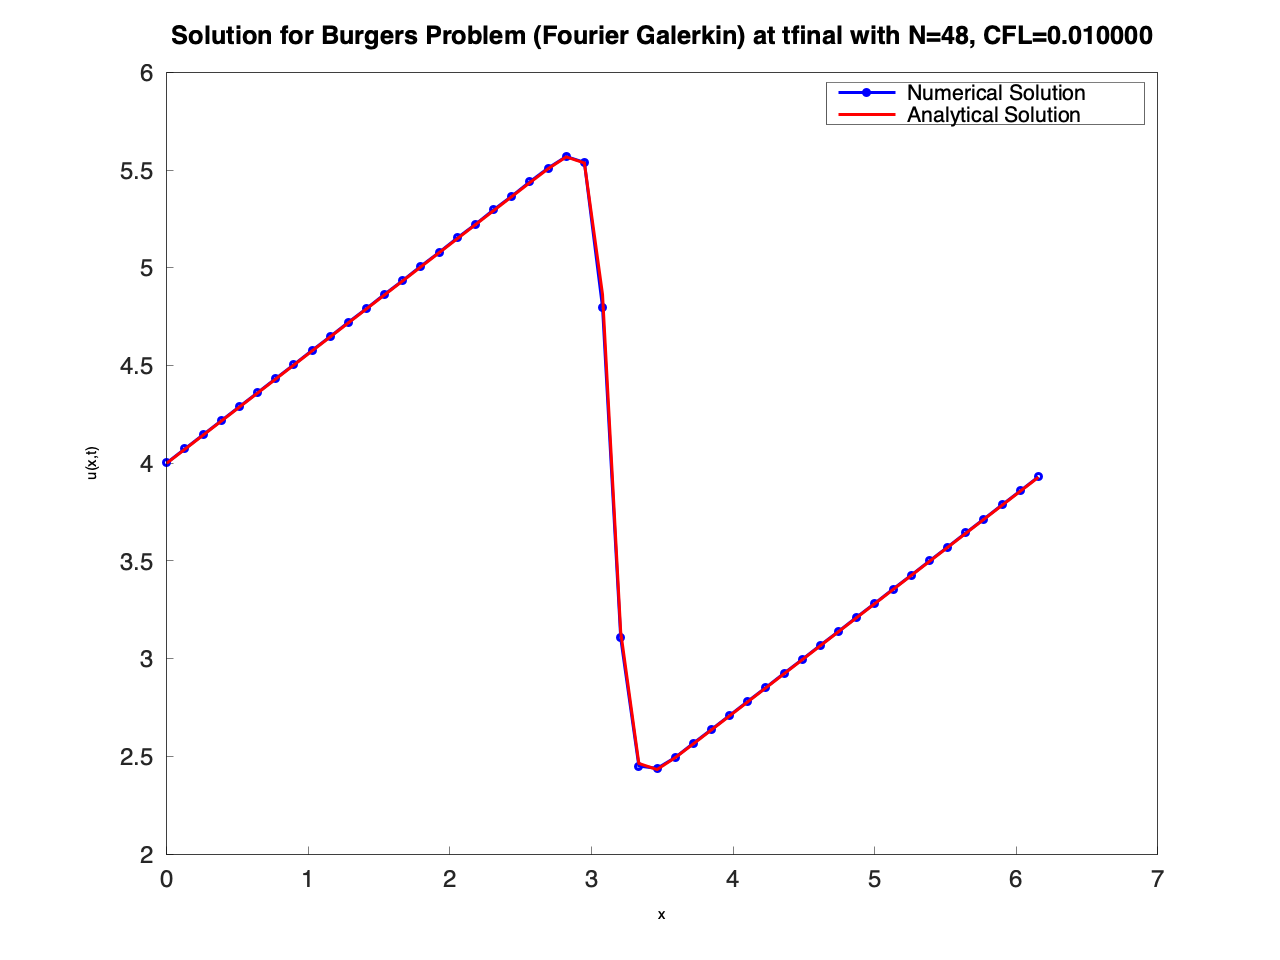
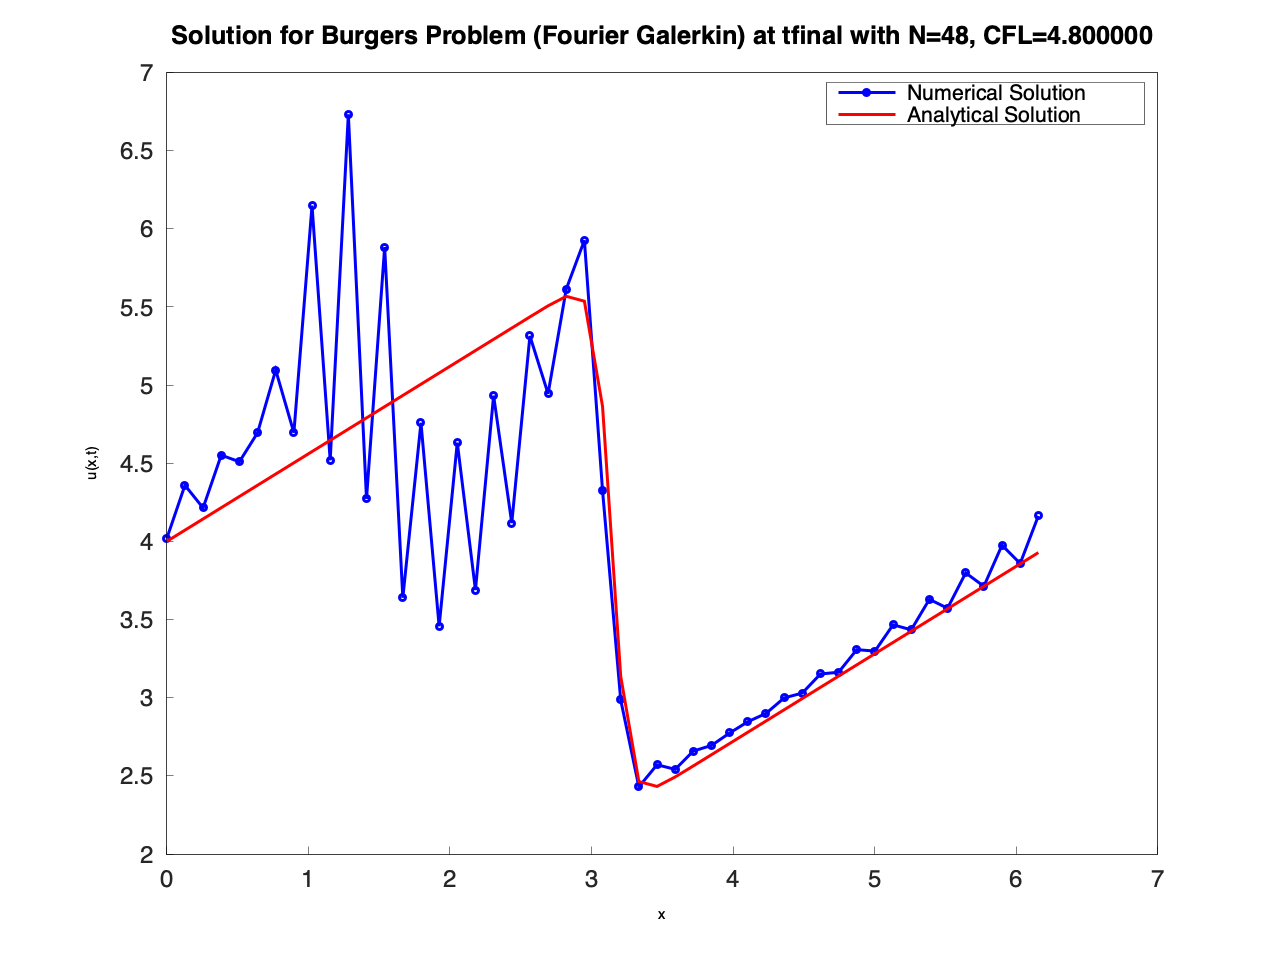
updated cfl

diff --git a/solver/src/main.cc b/solver/src/main.cc
@@ -43,7 +43,7 @@ std::vector<double> burgers_find_max_cfl() {
             << std::setw(25) << "Error at Max CFL" << std::endl;
   std::cout << std::string(53, '-') << std::endl;
 
-  double t_test = MathConstants<double>::PI() / 4.0;
+  double t_test = MathConstants<double>::PI() / 8.0;
 
   using namespace matplot;
   auto fig = figure(true);
@@ -56,7 +56,7 @@ std::vector<double> burgers_find_max_cfl() {
   ax->font_size(18); // Apply font size to axis-level elements
   ax->xlabel("cfls");
   ax->ylabel("L_inf error");
-  ax->title("Optimal cfl");
+  ax->title("Optimal cfl Fourier Collocation Method");
 
   for (int N : N_values) {
     auto spectral = std::make_shared<SpectralFourier<double>>(MethodType::ODD);
@@ -67,49 +67,34 @@ std::vector<double> burgers_find_max_cfl() {
     // Binary search for maximum stable and accurate CFL
     double cfl_low = 0.05;
     double cfl_high = 2;
-    // double cfl_tolerance = 0.01;
-    // double max_allowed_error = 0.01;
-    // double error_at_max_cfl = 0.0;
     double t_test =
-        MathConstants<double>::PI() / 8.0; // Test for a reasonable time period
+        MathConstants<double>::PI() / 4.0; // Test for a reasonable time period
 
-    // while (cfl_high - cfl_low > cfl_tolerance) {
-    //   double cfl_test = (cfl_low + cfl_high) / 2.0;
-    //
-    //   // Run a test simulation with the current CFL
-    //   solver.initialize(N, t_test, cfl_test);
-    //   solver.solve();
-    //
-    //   // Check both stability and accuracy
-    //   auto [_, __, ___, error, ____] = solver.get_results();
-    //
-    //   // Test if the solution is stable and accurate enough
-    //   bool is_good =
-    //       !std::isnan(error) && !std::isinf(error) && error <
-    //       max_allowed_error;
-    //
-    //   if (is_good) {
-    //     cfl_low = cfl_test;
-    //     error_at_max_cfl = error;
-    //   } else {
-    //     cfl_high = cfl_test;
-    //   }
-    // }
-    //
     double cfl_test = 0.0;
+    double error_prev = 0.0;
+    double cfl_final = 0.0;
     std::vector<double> errors;
     std::vector<double> cfls;
-
+    double safe_max_cfl = cfl_low;
+    double error_at_max_cfl = 0.0;
     while (cfl_test < cfl_high) {
       cfl_test += cfl_low;
       solver.initialize(N, t_test, cfl_test);
       solver.solve();
       auto [_, __, ___, error, ____] = solver.get_results();
-      bool is_good = !std::isnan(error) && !std::isinf(error) && std::abs(error) < 50;
+      // bool is_good = !std::isnan(error) && !std::isinf(error) &&
+      // std::abs(error) < 1;
+      bool is_good = !std::isnan(error) && !std::isinf(error);
+      // &&std::abs(error) - std::abs(error_prev) < 0.5;
       if (is_good) {
         errors.push_back(error);
         cfls.push_back(cfl_test);
+        safe_max_cfl = cfl_test;
+        error_at_max_cfl = error;
+      } else {
+        break;
       }
+      error_prev = error;
     }
 
     auto p = plot(cfls, errors);
@@ -117,27 +102,22 @@ std::vector<double> burgers_find_max_cfl() {
     p->display_name("N=" + std::to_string(N));
 
     hold(true);
-
+    //
     // Use a safety factor to ensure stability in all cases
     // double safety_factor = 0.8;
-    double safety_factor = 1.;
-    double safe_max_cfl = cfl_low * safety_factor;
-
+    // double safe_max_cfl = cfl_low * safety_factor;
     max_cfls.push_back(safe_max_cfl);
-
-    // std::cout << std::setw(8) << N << std::fixed << std::setprecision(4)
-    //           << std::setw(20) << safe_max_cfl << std::scientific
-    //           << std::setprecision(6) << std::setw(25) << error_at_max_cfl
-    //           << std::endl;
-    std::cout << "Done " << N << " with nr of errors " << errors.size()
+    std::cout << std::setw(8) << N << std::fixed << std::setprecision(4)
+              << std::setw(20) << safe_max_cfl << std::scientific
+              << std::setprecision(6) << std::setw(25) << error_at_max_cfl
               << std::endl;
+    // std::cout << "Done " << N << " with nr of errors " << errors.size()
+    //           << std::endl;
   }
-
   hold(false);
   legend()->font_size(16);
-
-  save("cfl_errors.png");
-
+  //
+  save("cfl_errors_fc.png");
   return max_cfls;
 }
 
@@ -200,8 +180,7 @@ void burgers_time_evolution(const std::vector<double> &cfl_values) {
   double nu = 0.1;
 
   // Find the CFL for N=128 from our results
-  // double cfl_128 = cfl_values[5];
-  double cfl_128 = 0.9;
+  double cfl_128 = cfl_values[5];
 
   std::cout << "\n=== Part 2(d): Time Evolution for N = " << N
             << " ===" << std::endl;
@@ -263,6 +242,7 @@ void burgers_time_evolution(const std::vector<double> &cfl_values) {
 std::vector<double> determine_cfl_values() {
   std::vector<int> N_values = {16, 32, 48, 64, 96, 128, 192, 256};
   std::vector<double> cfl_values;
+  std::vector<double> max_cfls;
   double nu = 0.1;
   double t_test =
       MathConstants<double>::PI() / 8.0; // Test for a reasonable time period
@@ -276,57 +256,128 @@ std::vector<double> determine_cfl_values() {
             << std::setw(25) << "Error at Max CFL" << std::endl;
   std::cout << std::string(53, '-') << std::endl;
 
+  using namespace matplot;
+  auto fig = figure(true);
+  fig->quiet_mode(true);
+  fig->backend()->run_command("unset warnings");
+  fig->size(1280, 960);
+  fig->font_size(18);
+
+  auto ax = gca();
+  ax->font_size(18); // Apply font size to axis-level elements
+  ax->xlabel("cfls");
+  ax->ylabel("L_inf error");
+  ax->title("Optimal cfl Fourier Galerkin Method");
+
   for (int N : N_values) {
     auto galerkin = std::make_shared<FourierGalerkin<double>>();
     BurgersGalerkinSolver<double> solver(galerkin, nu);
 
     // Binary search for maximum stable and accurate CFL
-    double cfl_low = 0.01;
-    double cfl_high = 0.9;
-    double cfl_tolerance = 0.01;
-    double max_allowed_error = 0.0001;
+    double cfl_low = 3;
+    double cfl_high = 6;
+    double cfl_step = 0.05;
+    double t_test =
+        MathConstants<double>::PI() / 4.0; // Test for a reasonable time period
+
+    double cfl_test = cfl_low;
+    double error_prev = 0.0;
+    double cfl_final = 0.0;
+    std::vector<double> errors;
+    std::vector<double> cfls;
+    double safe_max_cfl = cfl_low;
     double error_at_max_cfl = 0.0;
-
-    while (cfl_high - cfl_low > cfl_tolerance) {
-      double cfl_test = (cfl_low + cfl_high) / 2.0;
-
-      try {
-        // Initialize and solve with current CFL
-        solver.initialize(N, t_test, cfl_test);
-        solver.solve();
-
-        // Check error against exact solution
-        auto [_, __, ___, error, ____, _____] = solver.get_results();
-
-        // Test if solution is stable and accurate enough
-        bool is_good = !std::isnan(error) && !std::isinf(error) &&
-                       error < max_allowed_error;
-
-        if (is_good) {
-          cfl_low = cfl_test;
-          error_at_max_cfl = error;
-        } else {
-          cfl_high = cfl_test;
-        }
-      } catch (...) {
-        // Any exception means instability
-        cfl_high = cfl_test;
+    while (cfl_test < cfl_high) {
+      cfl_test += cfl_step;
+      solver.initialize(N, t_test, cfl_test);
+      solver.solve();
+      // auto [_, __, ___, error, ____] = solver.get_results();
+      auto [_, __, ___, error, ____, _____] = solver.get_results();
+      // bool is_good = !std::isnan(error) && !std::isinf(error) &&
+      // std::abs(error) < 1;
+      bool is_good = !std::isnan(error) && !std::isinf(error) &&
+                     std::abs(error) - std::abs(error_prev) < 1;
+      if (is_good) {
+        errors.push_back(error);
+        cfls.push_back(cfl_test);
+        safe_max_cfl = cfl_test;
+        error_at_max_cfl = error;
+      } else {
+        break;
       }
+      error_prev = error;
     }
+    //
+    auto p = plot(cfls, errors);
+    p->line_width(3);
+    p->display_name("N=" + std::to_string(N));
 
-    // Apply a safety factor
-    double safety_factor = 1;
-    double safe_max_cfl = cfl_low * safety_factor;
-
-    cfl_values.push_back(safe_max_cfl);
-
+    hold(true);
+    //
+    // Use a safety factor to ensure stability in all cases
+    // double safety_factor = 0.8;
+    // double safe_max_cfl = cfl_low * safety_factor;
+    max_cfls.push_back(safe_max_cfl);
     std::cout << std::setw(8) << N << std::fixed << std::setprecision(4)
               << std::setw(20) << safe_max_cfl << std::scientific
               << std::setprecision(6) << std::setw(25) << error_at_max_cfl
               << std::endl;
+    // std::cout << "Done " << N << " with nr of errors " << errors.size()
+    //           << std::endl;
   }
+  hold(false);
+  legend()->font_size(16);
+  //
+  save("cfl_errors_fg.png");
+  return max_cfls;
 
-  return cfl_values;
+  // Binary search for maximum stable and accurate CFL
+  //   double cfl_low = 0.01;
+  //   double cfl_high = 0.9;
+  //   double cfl_tolerance = 0.01;
+  //   double max_allowed_error = 0.0001;
+  //   double error_at_max_cfl = 0.0;
+  //
+  //   while (cfl_high - cfl_low > cfl_tolerance) {
+  //     double cfl_test = (cfl_low + cfl_high) / 2.0;
+  //
+  //     try {
+  //       // Initialize and solve with current CFL
+  //       solver.initialize(N, t_test, cfl_test);
+  //       solver.solve();
+  //
+  //       // Check error against exact solution
+  //       auto [_, __, ___, error, ____, _____] = solver.get_results();
+  //
+  //       // Test if solution is stable and accurate enough
+  //       bool is_good = !std::isnan(error) && !std::isinf(error) &&
+  //                      error < max_allowed_error;
+  //
+  //       if (is_good) {
+  //         cfl_low = cfl_test;
+  //         error_at_max_cfl = error;
+  //       } else {
+  //         cfl_high = cfl_test;
+  //       }
+  //     } catch (...) {
+  //       // Any exception means instability
+  //       cfl_high = cfl_test;
+  //     }
+  //   }
+  //
+  //   // Apply a safety factor
+  //   double safety_factor = 1;
+  //   double safe_max_cfl = cfl_low * safety_factor;
+  //
+  //   cfl_values.push_back(safe_max_cfl);
+  //
+  //   std::cout << std::setw(8) << N << std::fixed << std::setprecision(4)
+  //             << std::setw(20) << safe_max_cfl << std::scientific
+  //             << std::setprecision(6) << std::setw(25) << error_at_max_cfl
+  //             << std::endl;
+  // }
+  //
+  // return cfl_values;
 }
 // Part 3(c): Convergence study using CFL values from Part 3(b)
 void galerkin_convergence_study(const std::vector<double> &cfl_values) {
@@ -510,7 +561,7 @@ int main(int argc, char *argv[]) {
       collocation_cfls = burgers_find_max_cfl();
     }
 
-    collocation_cfls = {1.4, 1.25, 1.18, 1, 0.95, 0.9, 0.75, 0.65};
+    // collocation_cfls = {1.4, 1.25, 1.18, 1, 0.95, 0.9, 0.75, 0.65};
 
     if (run_ex02c) {
       if (collocation_cfls.empty()) {
